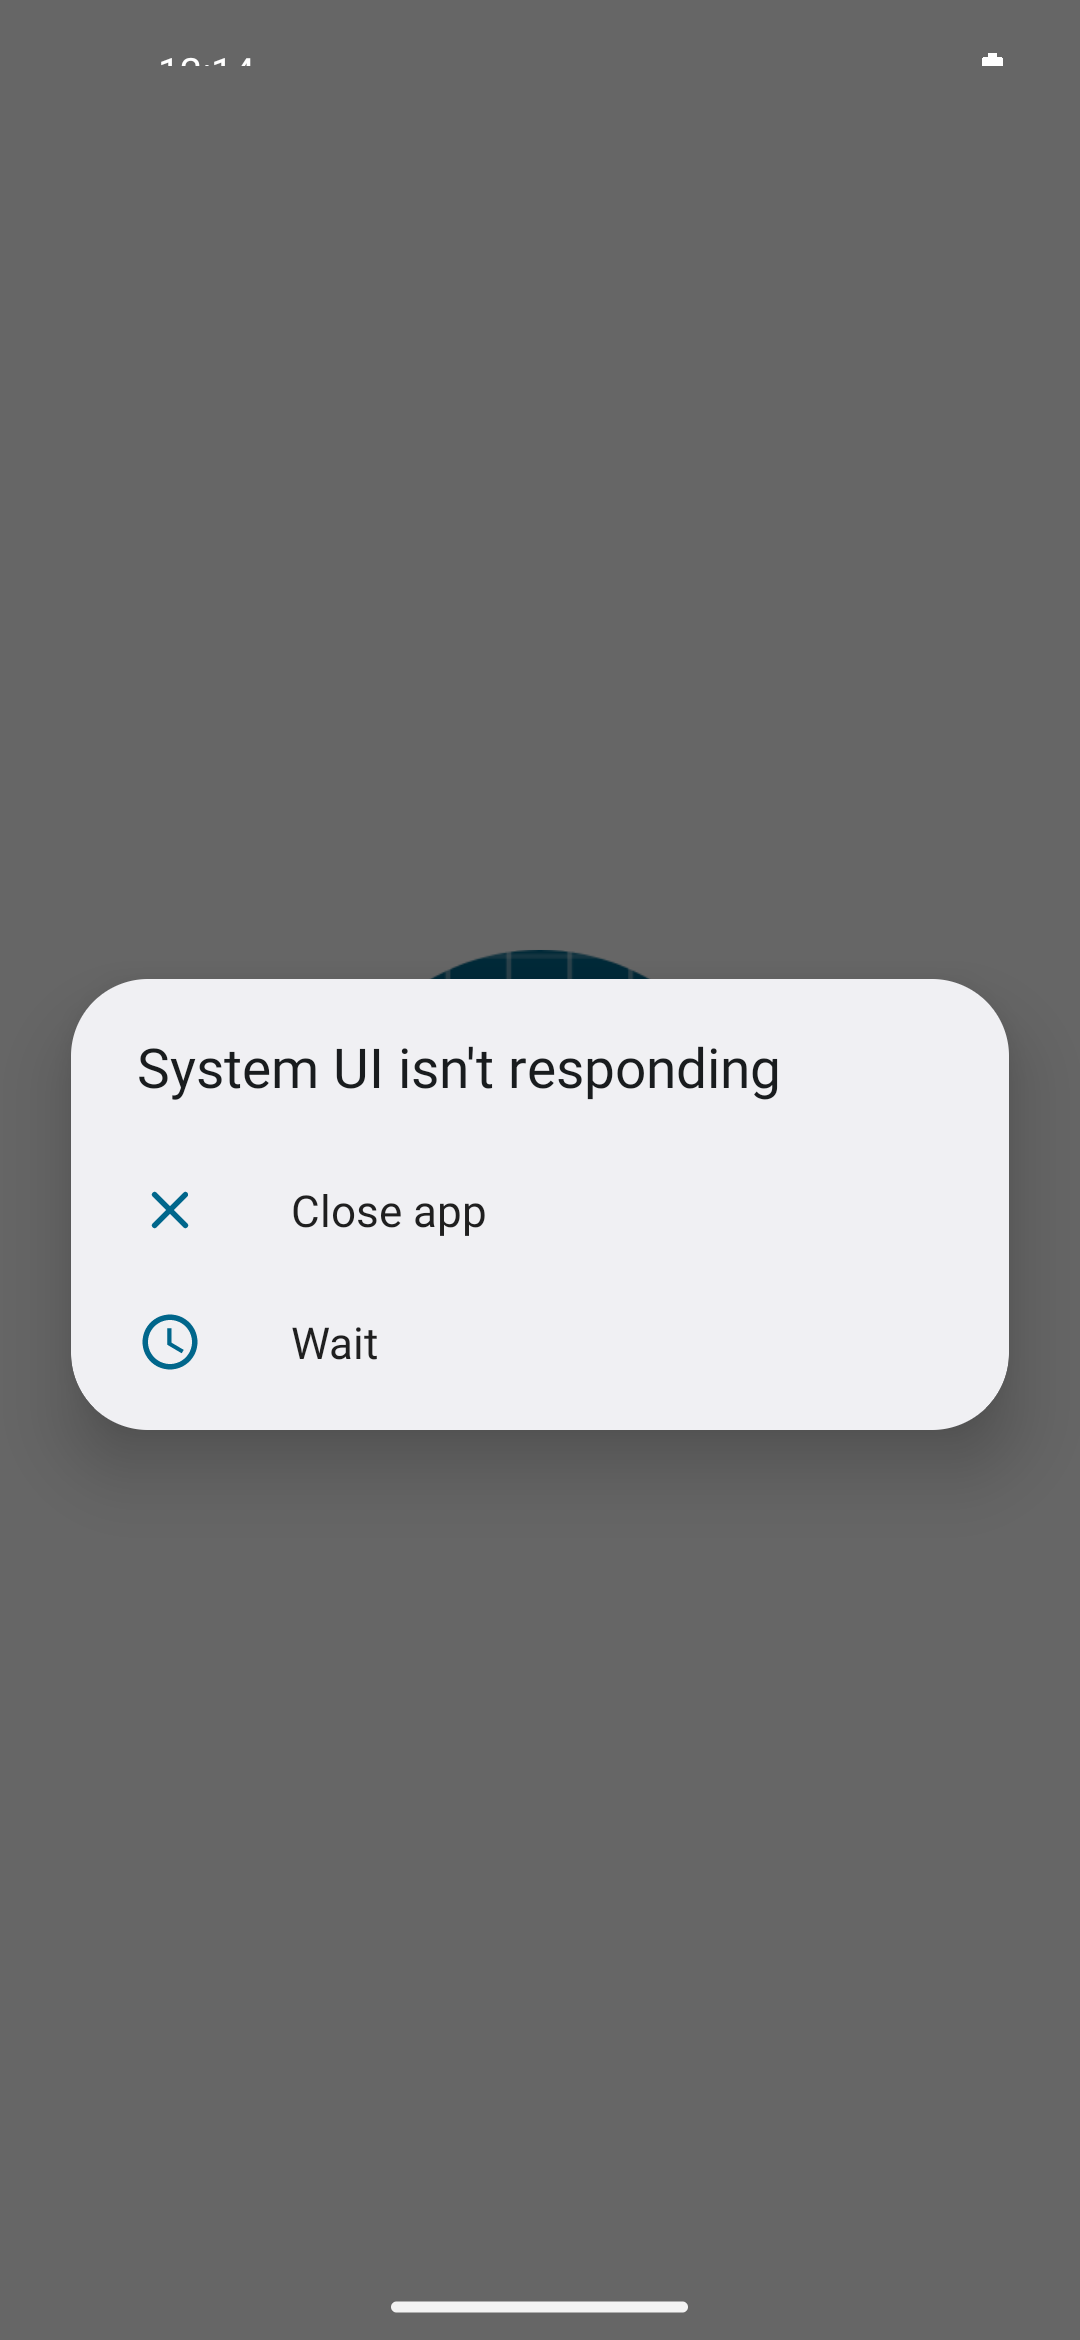
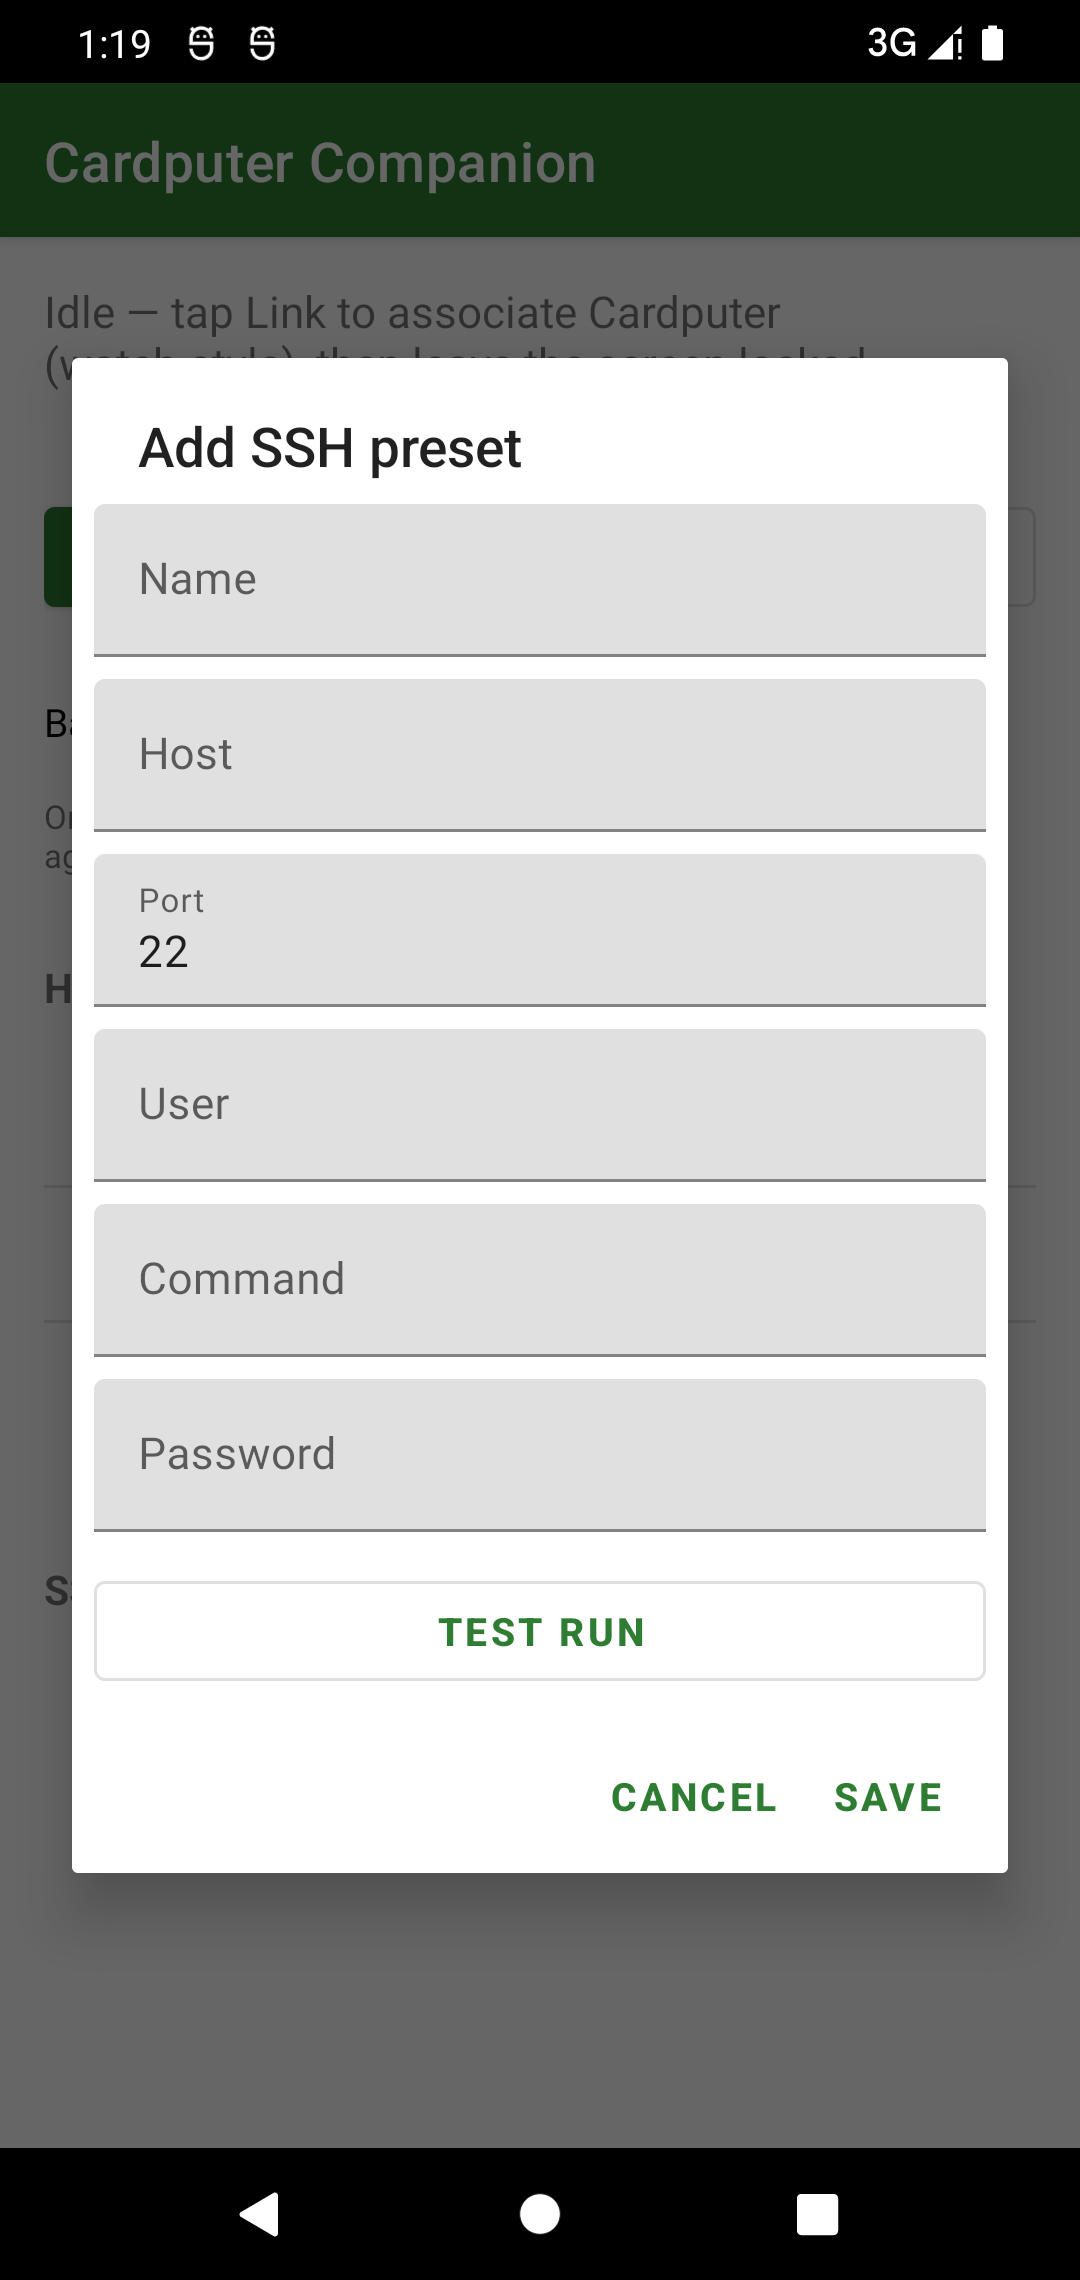
Fix companion SSH screenshot (real Add SSH preset dialog)
Replace ANR frame with a validated emulator capture of the SSH preset
editor. Update README alt text to match empty-field dialog.

diff --git a/README.md b/README.md
@@ -60,9 +60,9 @@ Primary development target is **Fedora**; setup and flash steps below prefer Fed
 
 ### Android Companion
 
-Screenshots below are from the real **Cardputer Companion** debug APK (`companion/`, v0.8.9) on an Android 13 (API 33) emulator. BLE is not available on the emulator, so the UI shows the idle / unlinked state (no Cardputer connection). The main screen still shows the permission hint until grants are accepted on a physical device.
+Screenshots below are from the real **Cardputer Companion** debug APK (`companion/`, v0.8.9) on an Android 12 (API 31) Google APIs x86_64 emulator (software CPU; nested KVM on the capture host did not expose a working `adbd`). BLE is not available on the emulator, so the UI shows the idle / unlinked state (no Cardputer connection).
 
-![Companion main screen (idle, default HTTP presets, SSH list empty) on an emulator without BLE](docs/images/companion-main.png)    ![Add SSH preset dialog with sample host `pi` / command `uptime` (fake credentials) and Test run](docs/images/companion-ssh-dialog.png)
+![Companion main screen (idle, default HTTP presets, SSH list empty) on an emulator without BLE](docs/images/companion-main.png)    ![Add SSH preset dialog (empty fields, Test run, Save / Cancel)](docs/images/companion-ssh-dialog.png)
 
 
 | Main (emulator, no BLE)              | SSH preset editor                     |
